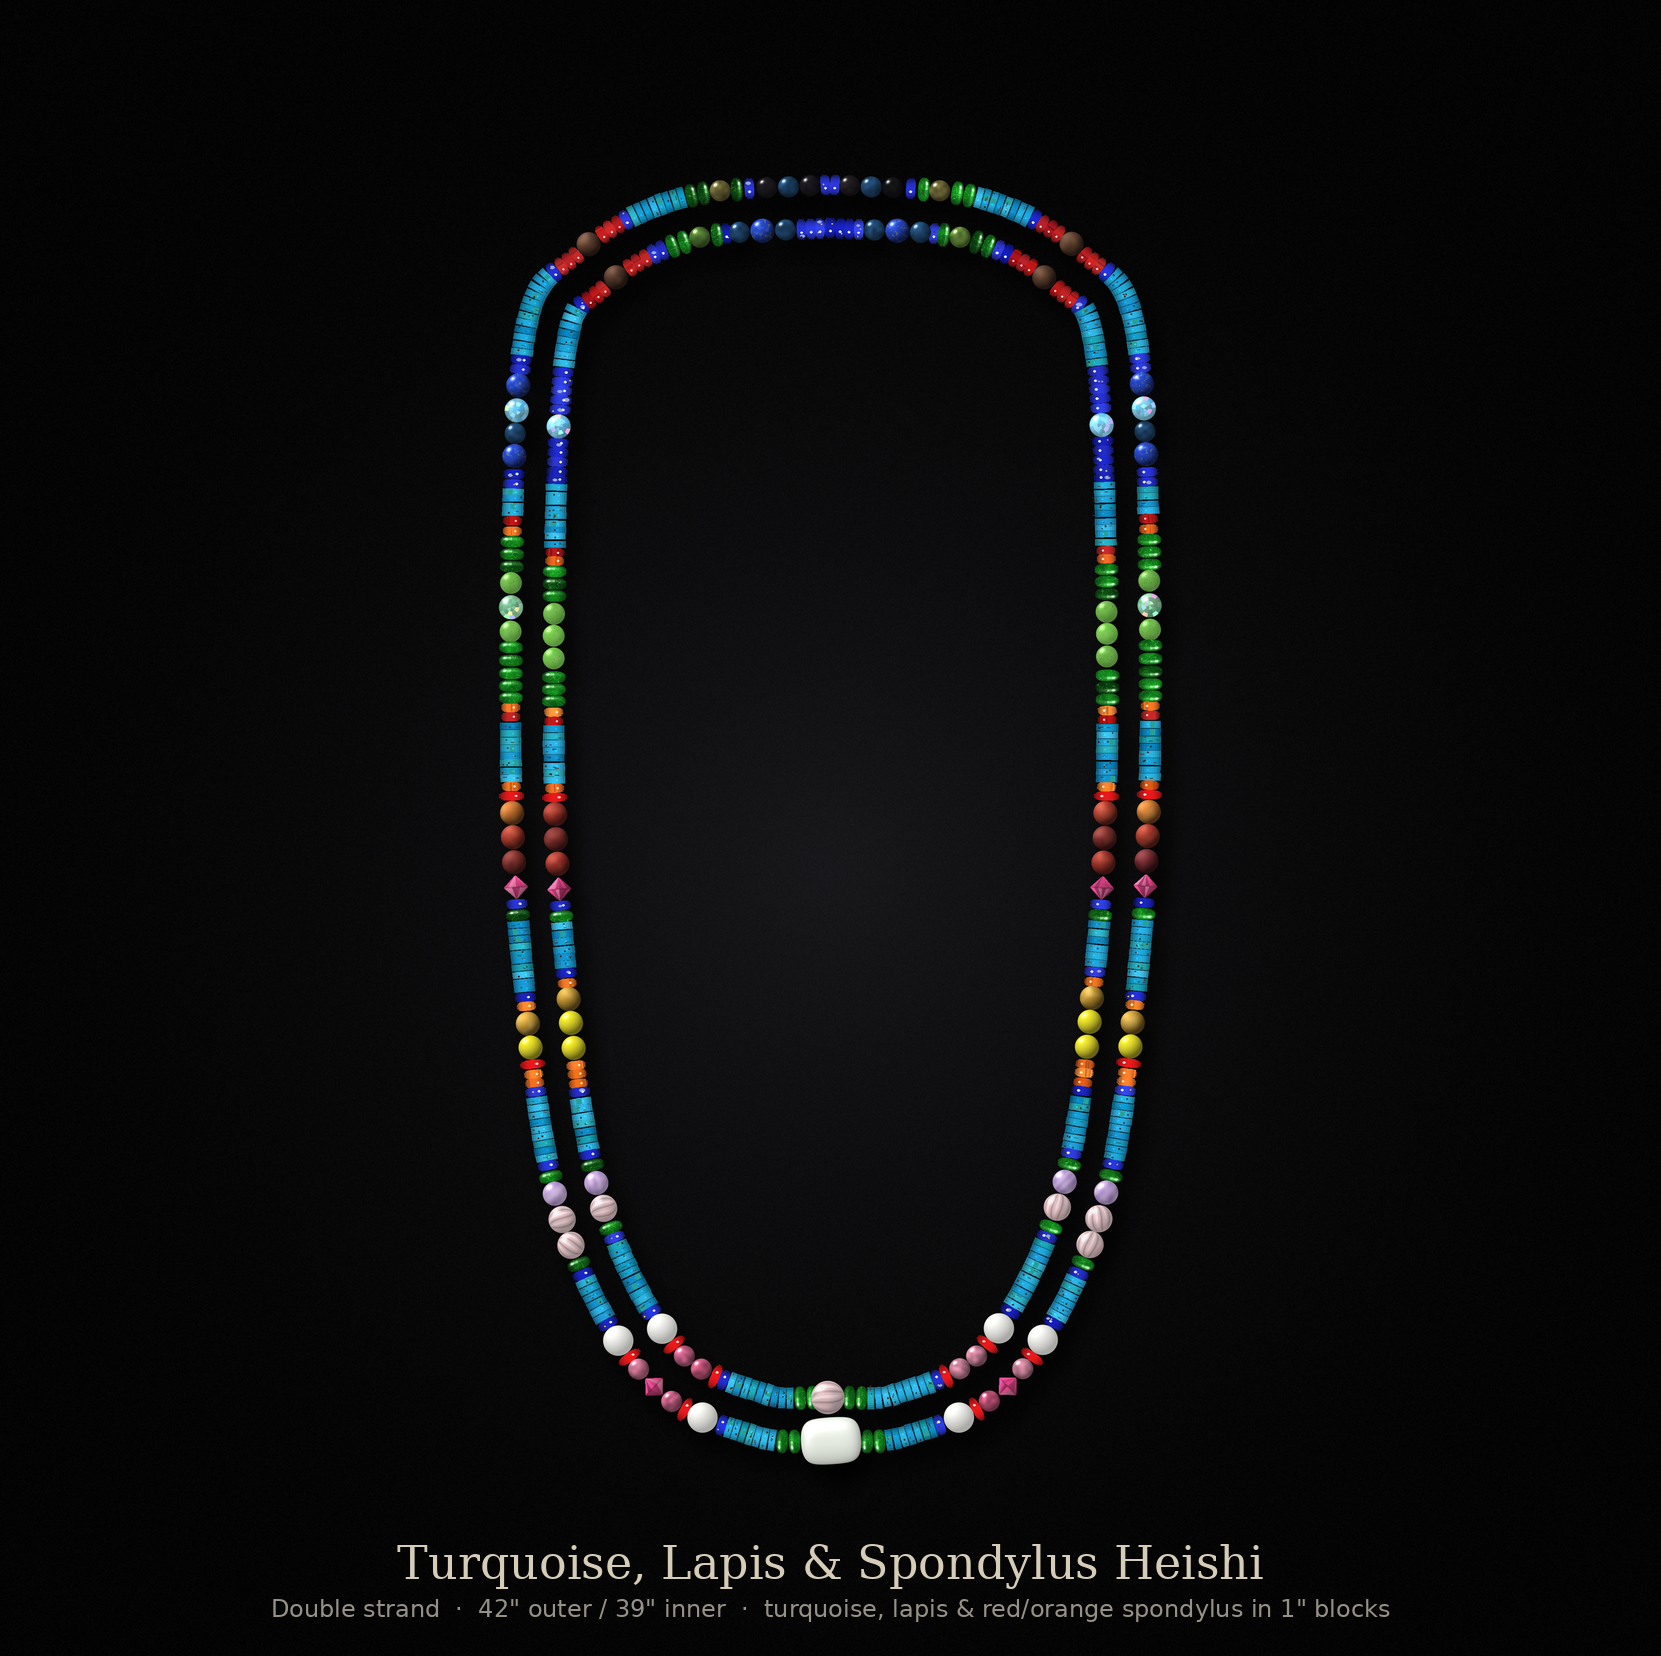
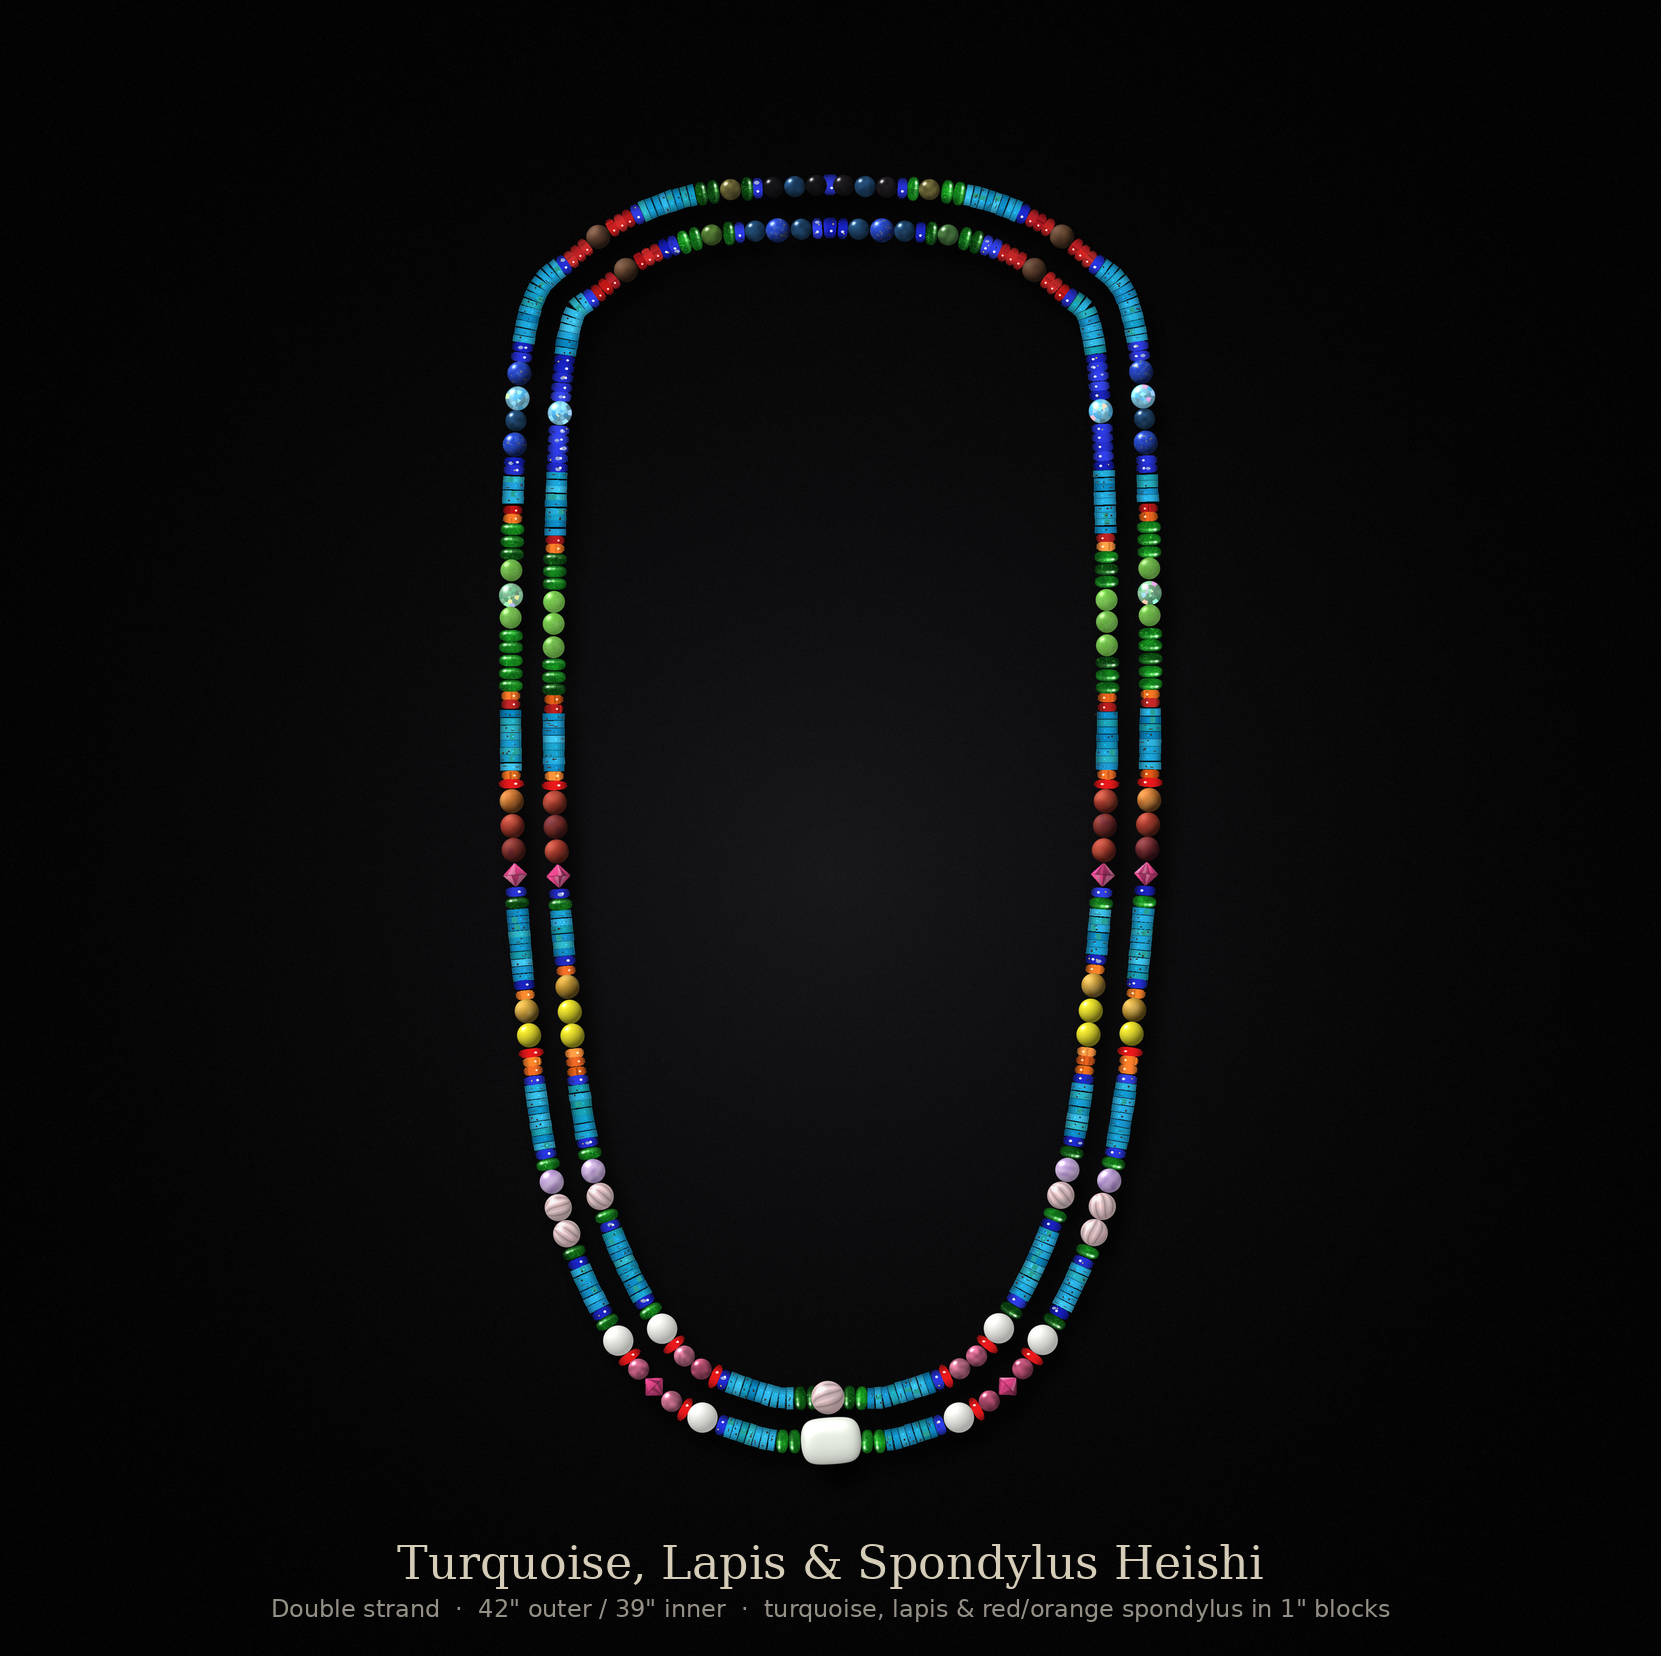
Version 5: chrome diopside between the lapis and the white opals
Claude-Session: https://claude.ai/code/session_014be1vF4Rdf8sv9Si75Gudv

Changed region(s): [[0.2763, 0.0924, 0.7062, 0.8623], [0.4299, 0.8315, 0.5527, 0.8623]]

diff --git a/necklace/render_necklace.py b/necklace/render_necklace.py
@@ -1017,6 +1017,8 @@ if V4:
             _s[0] = "orange"                        # top only; the lapis under the rose bicone stays
         _bo.append("diop"); _bi.append("diop")      # one chrome diopside under the lapis below the rose bicone
         BANDS[6] = (_bo, _bi)
+        BANDS[8] = tuple(b[:1] + ["diop"] + b[1:] for b in BANDS[8])   # chrome diopside between the lapis and the top white opal
+        assert all(b[2] == "opal10" for b in BANDS[8])
         BANDS[3] = tuple(b[:1] + b[2:] for b in BANDS[3])   # one orange fewer at the top of the yellow band (room for that diopside)
         assert all(b[1] == "orange" for b in BANDS[3])
         # yellow band moves down, between the mookaite (brown) band and the white band
@@ -1124,6 +1126,7 @@ if V4:
                 widths = [sum(SZ[k] for k in stn) for stn in STN]
                 widths[5] -= SZ["diop"]             # diopside under the mookaite band grows it downward...
                 widths[6] += SZ["orange"]           # ...into the room left by the orange removed from the top of the yellow band
+                widths[8] -= SZ["diop"]             # diopside above the white opal: band grows upward, room from the neck
                 widths[4] -= 6.0                    # green's orange borders: laid out at the old width, room taken from the neck lapis below
                 first = Hs - sum(widths) - sum(mids) - last
                 if st == 0:                         # outer green's extra length goes downward, not into the top section
@@ -1191,7 +1194,12 @@ if V4:
                 widths[4] += 6.0
                 widths[5] += SZ["diop"]
                 widths[6] -= SZ["orange"]
-                gaps[1] -= 6.0 + SZ["diop"] - SZ["orange"]                      # bands above (and incl.) green move up 6 mm into the lapis behind the neck
+                widths[8] += SZ["diop"]
+                _need = 6.0 + SZ["diop"] - SZ["orange"] + SZ["diop"]
+                for _gi, _fl in ((1, 3.0), (0, 1.0), (2, 3.0)):   # neck lapis first; any shortfall from the next run up
+                    _take = min(_need, max(0.0, gaps[_gi] - _fl)); gaps[_gi] -= _take; _need -= _take
+                print(f"v5 strand {st} neck gaps after shift", [round(float(x), 1) for x in gaps[:4]], "unplaced", round(_need, 2))
+                # bands above the added beads move up into the lapis behind the neck; visible turquoise runs unchanged
             g = 0.0
             lap = LAP_BUDGET[st]
             for gi, gl in enumerate(gaps):
